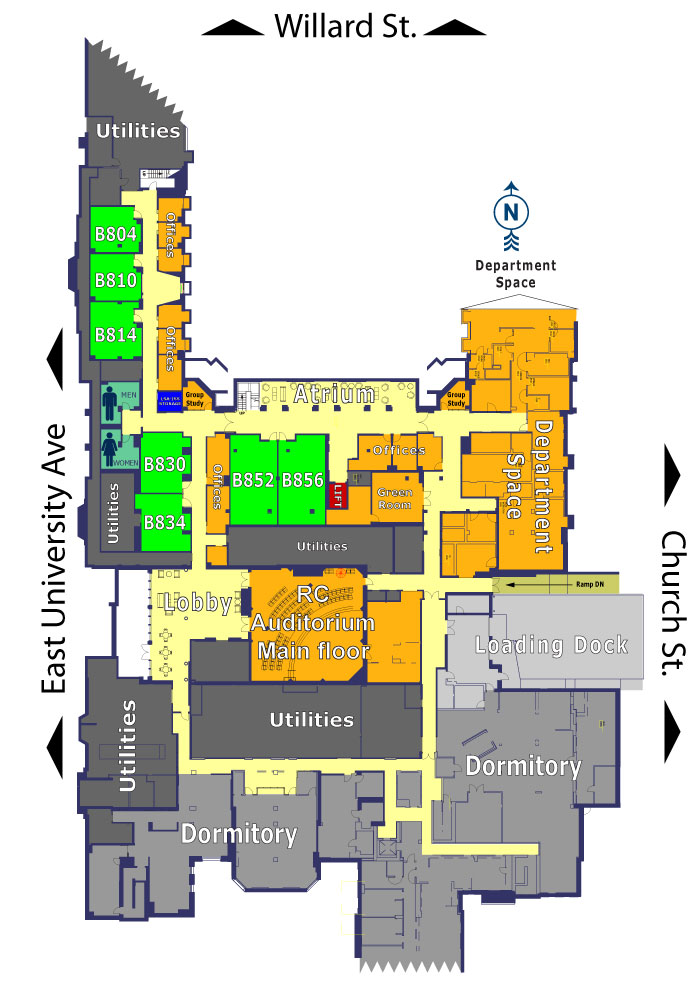
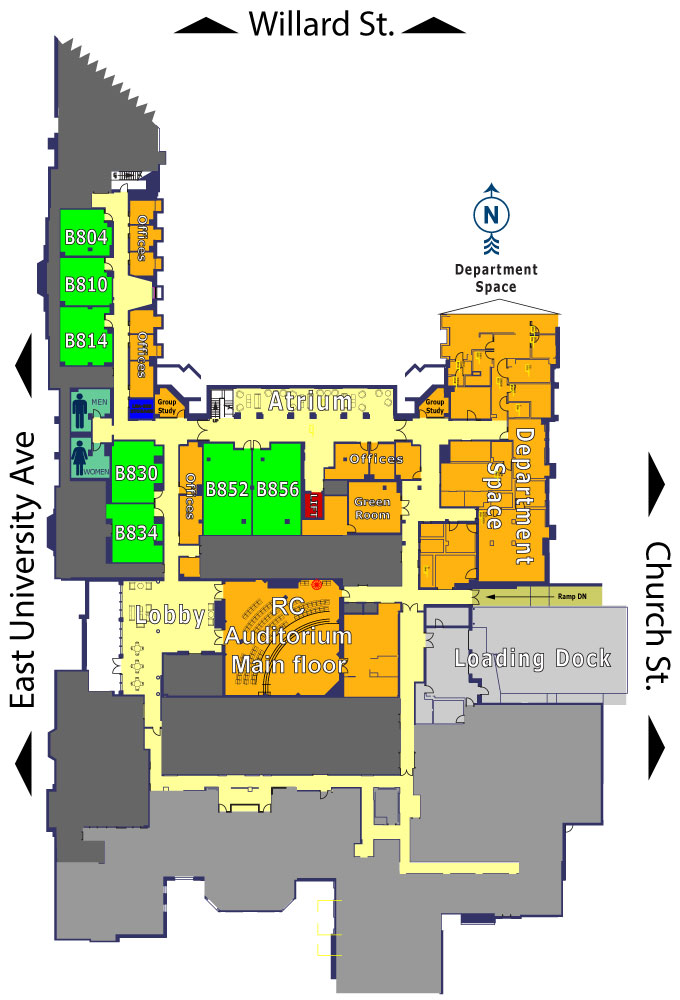
Update maps

diff --git a/public/maps/eqb.html b/public/maps/eqb.html
@@ -7,18 +7,18 @@ a:hover{text-decoration:underline}
 </style>
 </head>
 <body>
-<img style="margin:5px; z-index:-1" src="eqb.jpg" alt="Image of the basement of East Quad" width="695" height="1000" border="0" usemap="#eqb" />
+<img style="margin:5px 5px 5px 40px; z-index:-1" src="eqb.jpg" alt="Image of the basement of East Quad" width="695" height="1000" border="0" usemap="#eqb" />
 <p style="z-index:0; font-family:Verdana, Geneva, Sans-serif; font-size:normal; position:absolute; left:247px; top:225px; z-index:0;"><b>Basement, East Quad</b></p>
 <a style="font-family:Verdana, Geneva, Sans-serif; position:absolute; left:251px; top:272px;" href="eq1.html" title="link to 1st floor" alt="link to 1st floor"><b>link to 1st floor</b></a>
 <a style="font-family:Verdana, Geneva, Sans-serif; position:absolute; left:246px; top:306px;" href="index.html"  alt="link campus map" title="link to campus map"><b>link to campus map</b></a>
 <map name="eqb" id="eqb">
-  <area shape="rect" coords="90,205,144,252" href="../classrooms/EQB804" alt="link to data room B804 East Quad"  title="link to data room B804 East Quad"/>
-  <area shape="rect" coords="90,253,144,301" href="../classrooms/EQB810" alt="link to data room B810 East Quad"  title="link to data room B810 East Quad"/>
-  <area shape="rect" coords="89,301,144,362" href="../classrooms/EQB814" alt="link to data room B814 East Quad"  title="link to data room B814 East Quad"/>
-  <area shape="rect" coords="140,431,190,494" href="../classrooms/EQB830" alt="link to data room B830 East Quad"  title="link to data room B830 East Quad"/>
-  <area shape="rect" coords="139,494,191,553" href="../classrooms/EQB834" alt="link to data room B834 East Quad"  title="link to data room B834 East Quad"/>
-  <area shape="rect" coords="229,436,280,525" href="../classrooms/EQB852" alt="link to data room B852 East Quad"  title="link to data room B852 East Quad"/>
-  <area shape="rect" coords="280,434,328,527" href="../classrooms/EQB856" alt="link to data room B856 East Quad"  title="link to data room B856 East Quad"/>
+  <area shape="rect" coords="62,211,116,258" href="../classrooms/EQB804" alt="link to data room B804 East Quad"  title="link to data room B804 East Quad"/>
+  <area shape="rect" coords="62,259,116,307" href="../classrooms/EQB810" alt="link to data room B810 East Quad"  title="link to data room B810 East Quad"/>
+  <area shape="rect" coords="61,307,116,368" href="../classrooms/EQB814" alt="link to data room B814 East Quad"  title="link to data room B814 East Quad"/>
+  <area shape="rect" coords="260,443,308,536" href="../classrooms/EQB856" alt="link to data room B856 East Quad"  title="link to data room B856 East Quad"/>
+  <area shape="rect" coords="209,445,260,534" href="../classrooms/EQB852" alt="link to data room B852 East Quad"  title="link to data room B852 East Quad"/>
+  <area shape="rect" coords="109,504,167,562" href="../classrooms/EQB834" alt="link to data room B834 East Quad"  title="link to data room B834 East Quad"/>
+  <area shape="rect" coords="110,438,170,503" href="../classrooms/EQB830" alt="link to data room B830 East Quad"  title="link to data room B830 East Quad"/>
 </map>
 </body>
 </html>

diff --git a/public/maps/usb4.html b/public/maps/usb4.html
@@ -1,5 +1,4 @@
-<!DOCTYPE html PUBLIC "-//W3C//DTD XHTML 1.0 Transitional//EN" "http://www.w3.org/TR/xhtml1/DTD/xhtml1-transitional.dtd">
-<html xmlns="http://www.w3.org/1999/xhtml">
+<!DOCTYPE html>
 <head>
 <meta http-equiv="Content-Type" content="text/html; charset=utf-8" />
 <title>USB - 4th floor</title>
